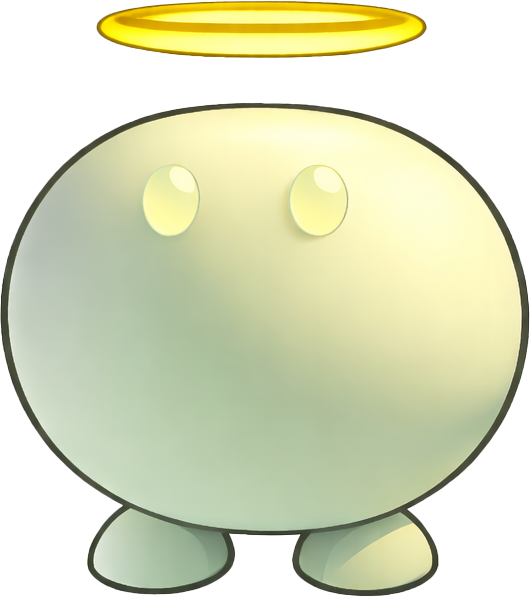
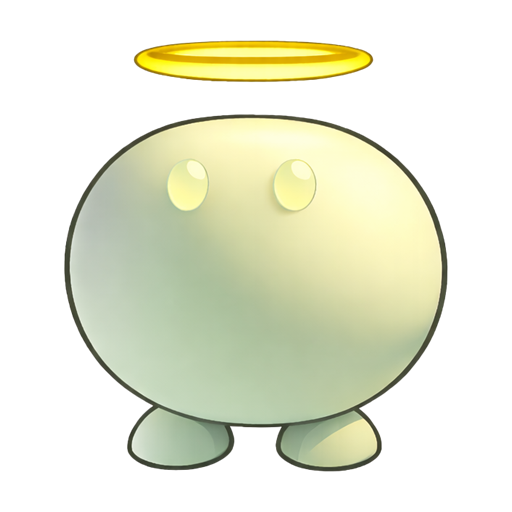
Standardize character canvas sizing to 512x512 with high quality centered padding and add layered float and pop animations

diff --git a/css/style.css b/css/style.css
@@ -769,19 +769,50 @@ section {
   100% { transform: rotate(360deg); }
 }
 
+.char-preview-float-wrapper {
+  z-index: 3;
+  display: flex;
+  align-items: center;
+  justify-content: center;
+  width: 100%;
+  height: 100%;
+  animation: float-character 3.5s ease-in-out infinite alternate;
+}
+
+@keyframes float-character {
+  0% { transform: translateY(10px); }
+  100% { transform: translateY(-12px); }
+}
+
 .char-preview-img {
   width: 230px;
   height: 230px;
   object-fit: contain;
   z-index: 3;
-  transition: var(--transition-bounce);
-  animation: float-character 3.5s ease-in-out infinite alternate;
+  opacity: 0;
   filter: drop-shadow(0 15px 12px rgba(0,0,0,0.6));
 }
 
-@keyframes float-character {
-  0% { transform: translateY(10px) scale(0.98); }
-  100% { transform: translateY(-15px) scale(1.02); }
+.char-preview-img.animate-pop {
+  animation: char-pop-in 0.6s cubic-bezier(0.175, 0.885, 0.32, 1.275) forwards;
+}
+
+@keyframes char-pop-in {
+  0% {
+    transform: scale(0.3) rotate(-15deg);
+    opacity: 0;
+    filter: drop-shadow(0 0 0 rgba(0,0,0,0)) brightness(2);
+  }
+  70% {
+    transform: scale(1.1) rotate(5deg);
+    opacity: 1;
+    filter: drop-shadow(0 20px 15px rgba(0,0,0,0.5)) brightness(1.1);
+  }
+  100% {
+    transform: scale(1) rotate(0deg);
+    opacity: 1;
+    filter: drop-shadow(0 15px 12px rgba(0,0,0,0.6)) brightness(1);
+  }
 }
 
 .char-preview-pedestal {

diff --git a/js/main.js b/js/main.js
@@ -293,17 +293,15 @@ function initCharacterShowcase() {
       cards.forEach(c => c.classList.remove('active'));
       card.classList.add('active');
 
-      // Update main showcase preview
-      previewImg.style.opacity = '0';
-      previewImg.style.transform = 'scale(0.8) translateY(10px)';
+      // Update main showcase preview with pop-in animation
+      previewImg.classList.remove('animate-pop');
+      void previewImg.offsetWidth; // Trigger reflow
       
-      setTimeout(() => {
-        previewImg.src = data.image;
-        previewImg.alt = data.name;
-        previewImg.style.opacity = '1';
-        previewImg.style.transform = 'scale(1) translateY(0)';
-        previewGlow.style.background = data.glow;
-      }, 200);
+      previewImg.src = data.image;
+      previewImg.alt = data.name;
+      previewGlow.style.background = data.glow;
+      
+      previewImg.classList.add('animate-pop');
 
       // Update text values
       charName.innerText = data.name;

diff --git a/index.html b/index.html
@@ -184,7 +184,9 @@
         <div class="char-main-preview" id="character-visual-frame">
           <div class="char-preview-rays" id="character-rays-effect"></div>
           <div class="char-preview-bg-glow" id="character-glow-effect"></div>
-          <img class="char-preview-img" id="character-main-image" src="assets/images/base_pico.png" alt="Base Pico Character">
+          <div class="char-preview-float-wrapper" id="character-float-wrapper">
+            <img class="char-preview-img animate-pop" id="character-main-image" src="assets/images/base_pico.png" alt="Base Pico Character">
+          </div>
           <div class="char-preview-pedestal" id="character-pedestal"></div>
           <div class="char-preview-floor-shadow" id="character-floor-shadow"></div>
         </div>
